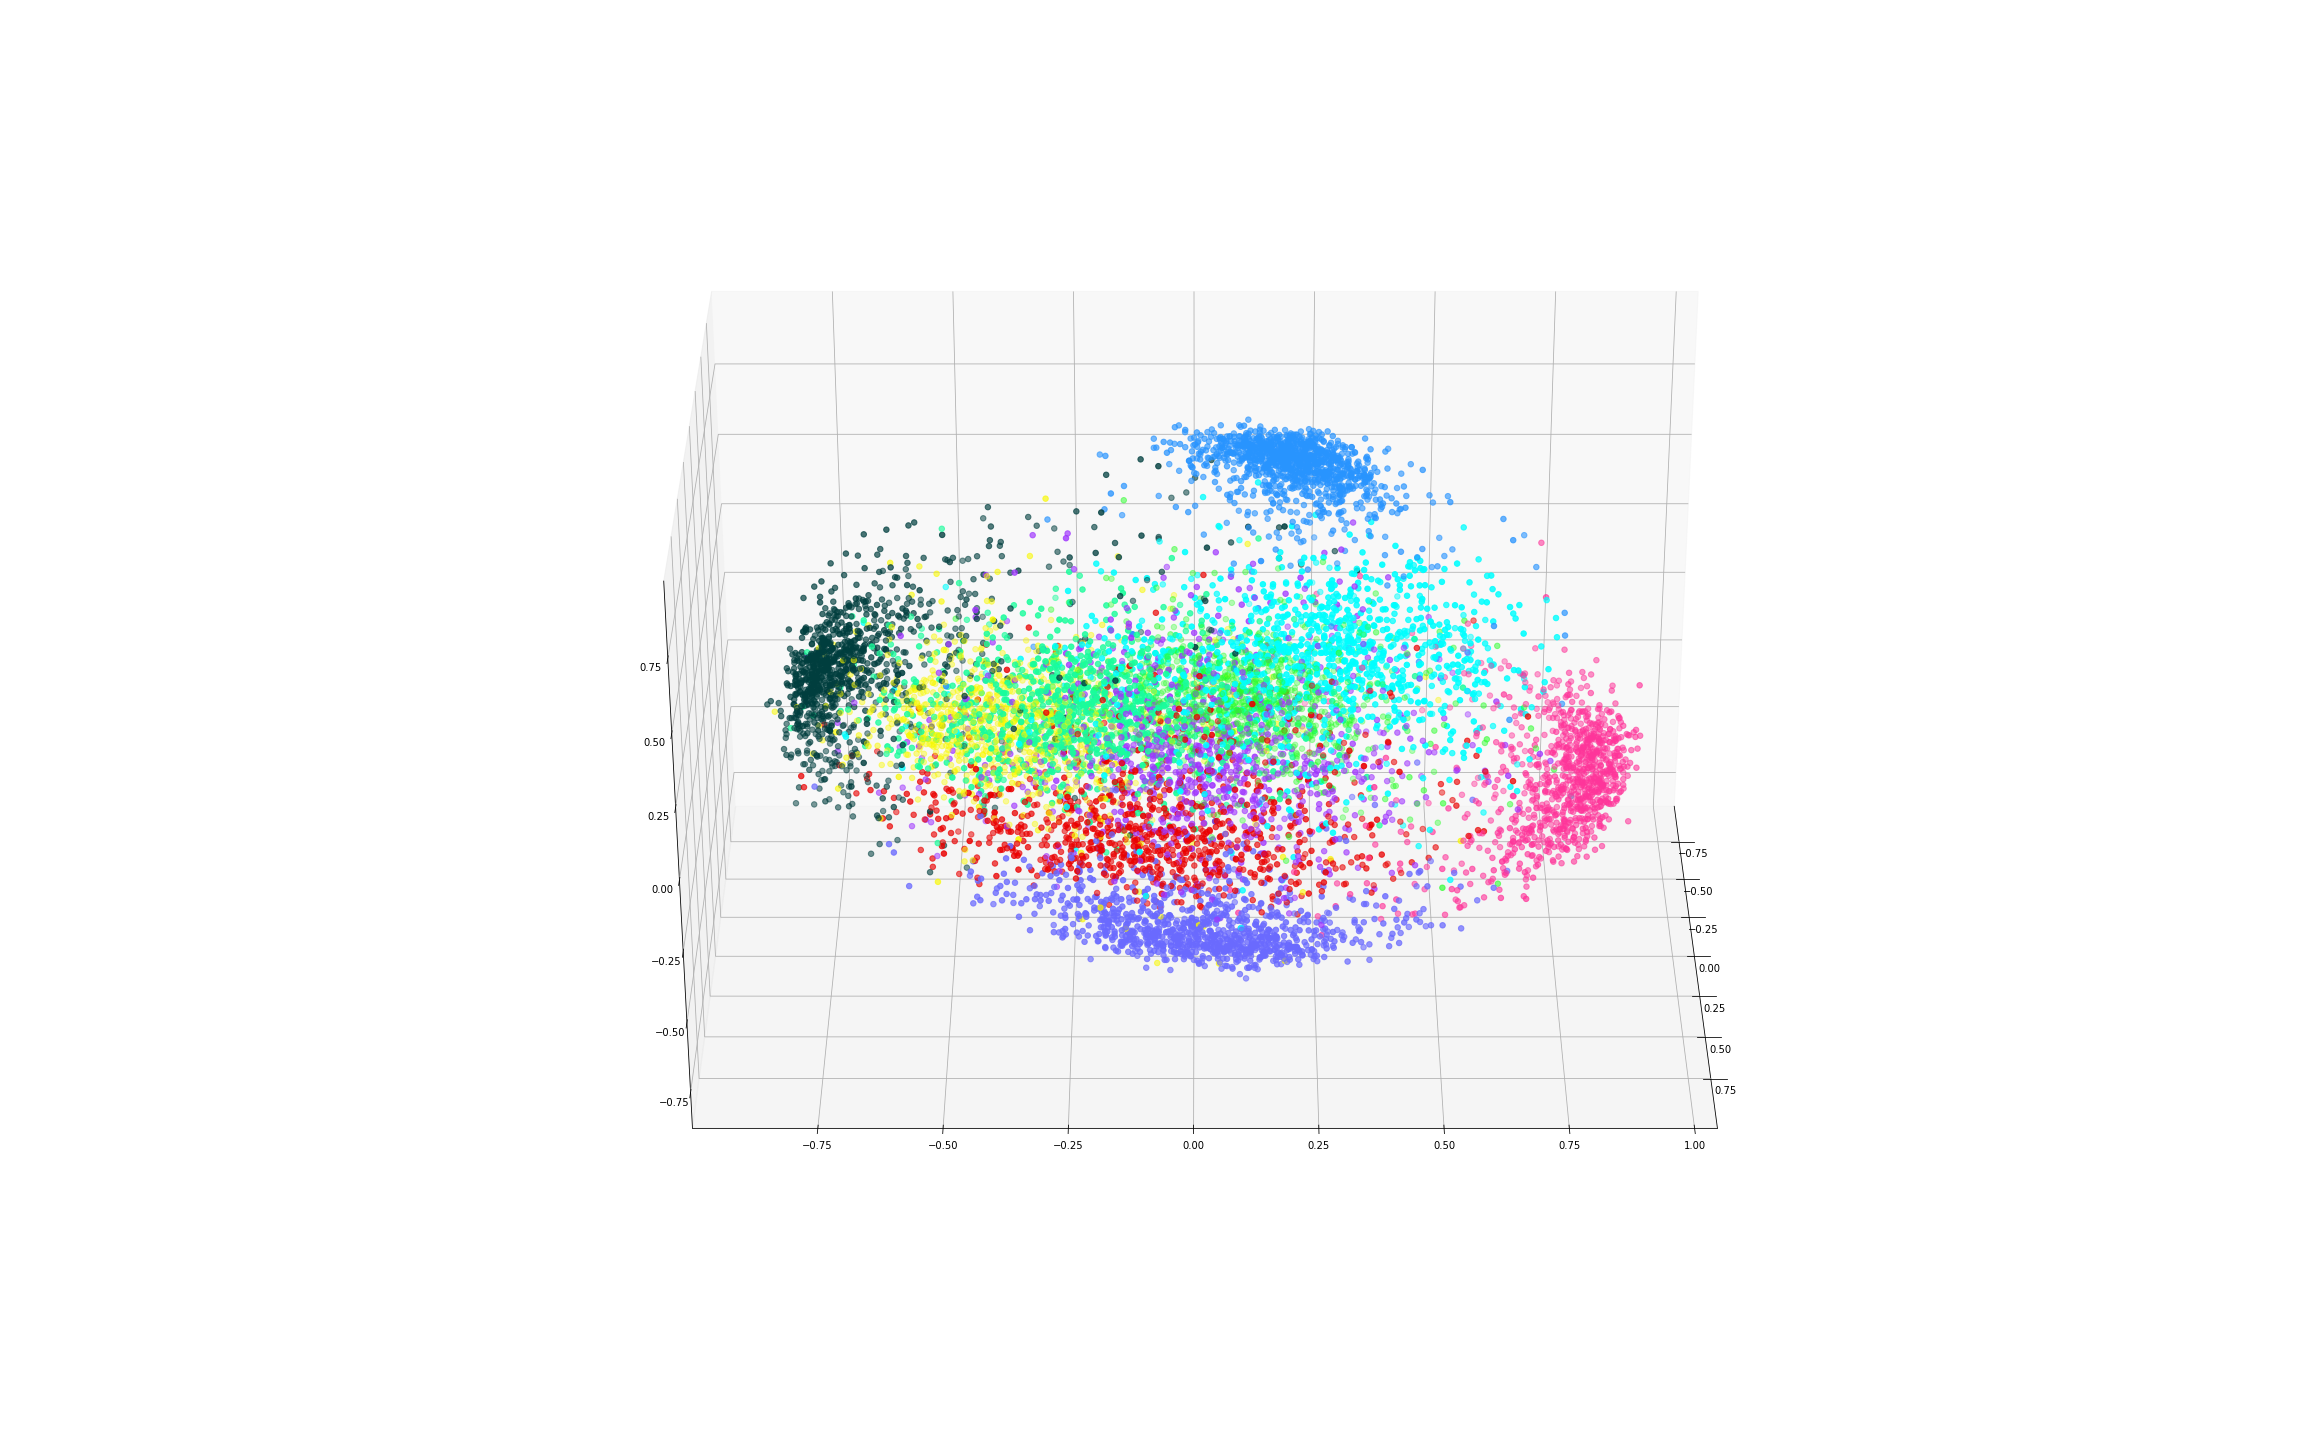
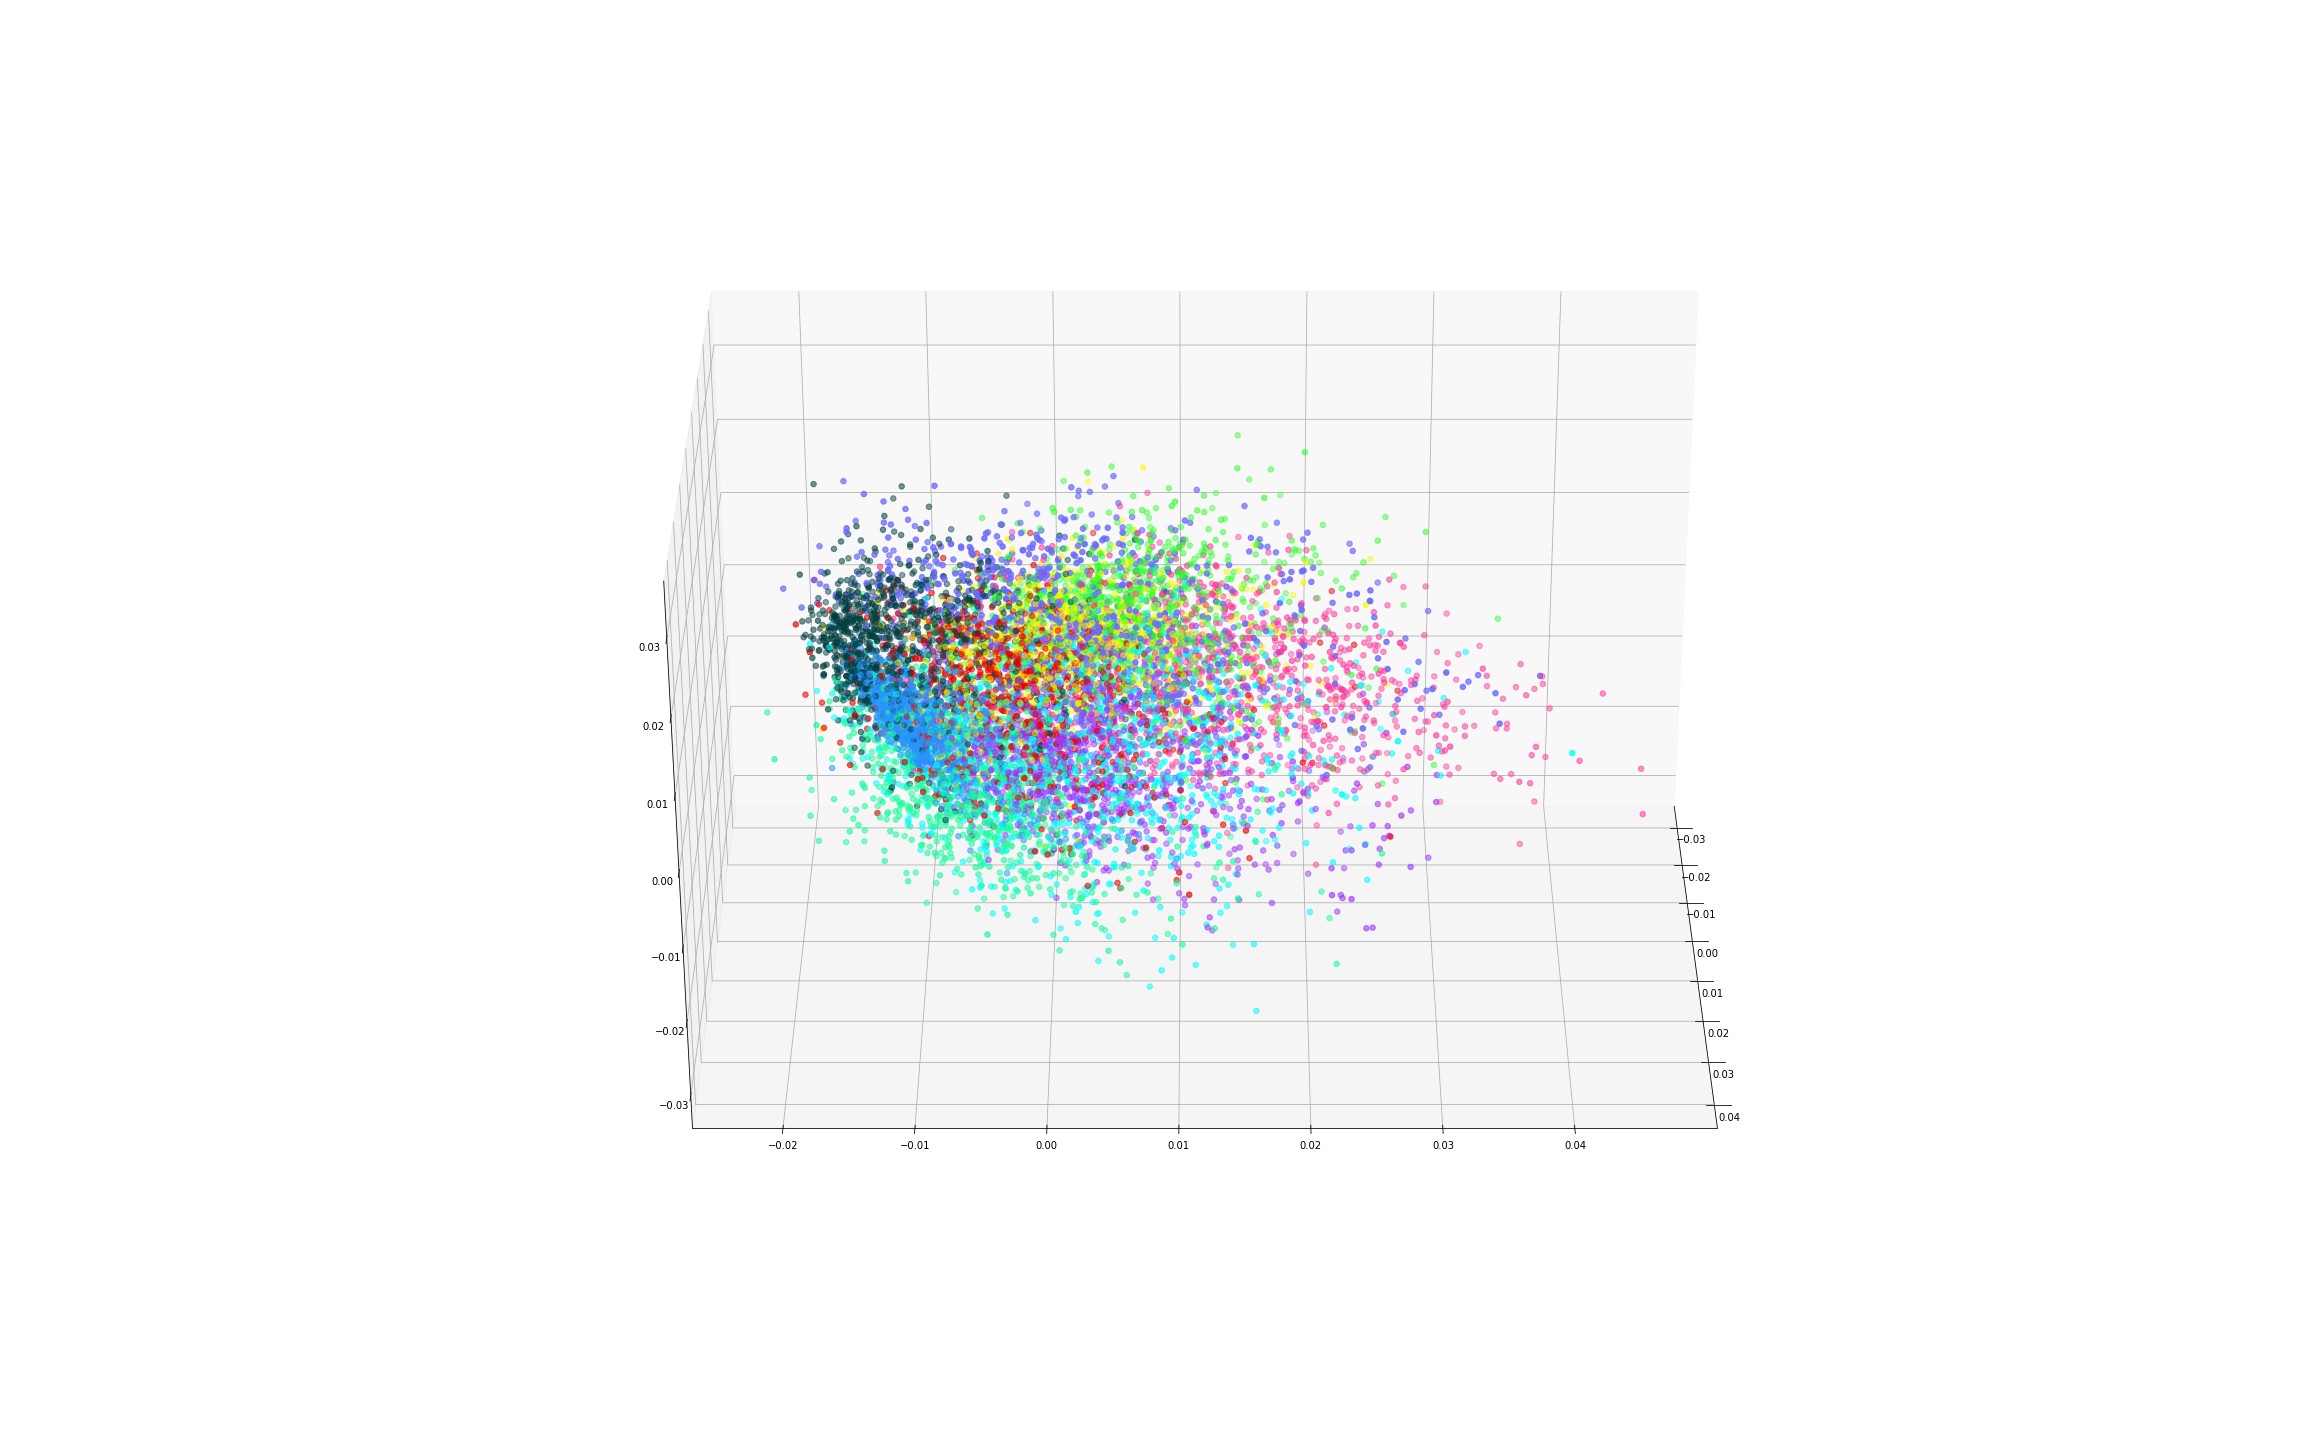
Fix Bug

Changed region(s): [[0.2812, 0.2812, 0.7188, 0.7188], [0.7188, 0.5938, 0.75, 0.75]]

diff --git a/NeuralNetwork-02 Triplet Loss Example at MNIST/run.py b/NeuralNetwork-02 Triplet Loss Example at MNIST/run.py
@@ -26,7 +26,6 @@ pd.options.mode.chained_assignment = None
 -----------------------Data Set-----------------------
 '''
 [(train_x, train_y), (test_x, test_y)] = load_data('mnist.npz')
-# test_x, test_y = test_x[:500], test_y[:500]
 test_x = test_x.reshape(test_x.shape[0], 28, 28, 1).astype('float32')
 test_x = (test_x - 127.5) / 127.5
 
@@ -39,9 +38,8 @@ train_dataset = train_dataset.batch(opts.BATCH_SIZE).take(20)
 '''
 -----------------------Network Setting-----------------------
 '''
-# method = 'batch_all'
-method = 'batch_hard'
-# method = 'semi_hard'
+# method = 'batch_hard'
+method = 'semi_hard'
 
 triplet_net = Triplet_Net()
 TripletLoss = tfa.losses.TripletSemiHardLoss(margin=opts.margin)

diff --git a/NeuralNetwork-02 Triplet Loss Example at MNIST/model.py b/NeuralNetwork-02 Triplet Loss Example at MNIST/model.py
@@ -23,7 +23,6 @@ class Triplet_Net(Model):
             layers.Flatten(),
             tf.keras.layers.Dense(200)])
         self.l2_norm = layers.Lambda(lambda x: tf.math.l2_normalize(x, axis=1))
-            # layers.Lambda(lambda x: tf.math.l2_normalize(x, axis=1))])
     def call(self, img, training=True):
         vec = self.emb_layer(img)
         vec = self.l2_norm(vec)

diff --git a/NeuralNetwork-02 Triplet Loss Example at MNIST/README.md b/NeuralNetwork-02 Triplet Loss Example at MNIST/README.md
@@ -1,13 +1,13 @@
 # NeuralNetwork-02 Triplet Loss Example at MNIST
 
-![Batch Hard 2D Durring Training](https://github.com/AugustusHsu/Blogger-Code/blob/master/NeuralNetwork-02%20Triplet%20Loss%20Example%20at%20MNIST/gif/batch_hard_2d.gif?raw=true)
-
-![Batch Hard 3D Example](https://github.com/AugustusHsu/Blogger-Code/blob/master/NeuralNetwork-02%20Triplet%20Loss%20Example%20at%20MNIST/gif/batch_hard_3d.gif?raw=true)
-
-![Semi-Hard 2D Durring Training](https://github.com/AugustusHsu/Blogger-Code/blob/master/NeuralNetwork-02%20Triplet%20Loss%20Example%20at%20MNIST/gif/semi_hard_2d.gif?raw=true)
-
-![Semi-Hard 3D Example](https://github.com/AugustusHsu/Blogger-Code/blob/master/NeuralNetwork-02%20Triplet%20Loss%20Example%20at%20MNIST/gif/semi_hard_3d.gif?raw=true)
-
 用Triplet Loss訓練MNIST，觀察在3D和2D空間上的表現。
 
 Blogger Link : **https://augustushsu.github.io/2020/06/10/NeuralNetwork-02/**
+
+![Batch Hard 2D Durring Training](https://drive.google.com/uc?export=view&id=1B1-A3L_7XnumFV59wrp5VpWtHet3hCW9)
+
+![Batch Hard 3D Example](https://drive.google.com/uc?export=view&id=1zzxx-lEvOvg8Oj8qlq6SNqyXrZQBKSmI)
+
+![Semi-Hard 2D Durring Training](https://drive.google.com/uc?export=view&id=1DuQg0TnLRTbe-KO-022KMmEHj7FZc6fO)
+
+![Semi-Hard 3D Example](https://drive.google.com/uc?export=view&id=1-TvhqS9oFIhO2JyasbpjTIPm1XI5FQV5)
